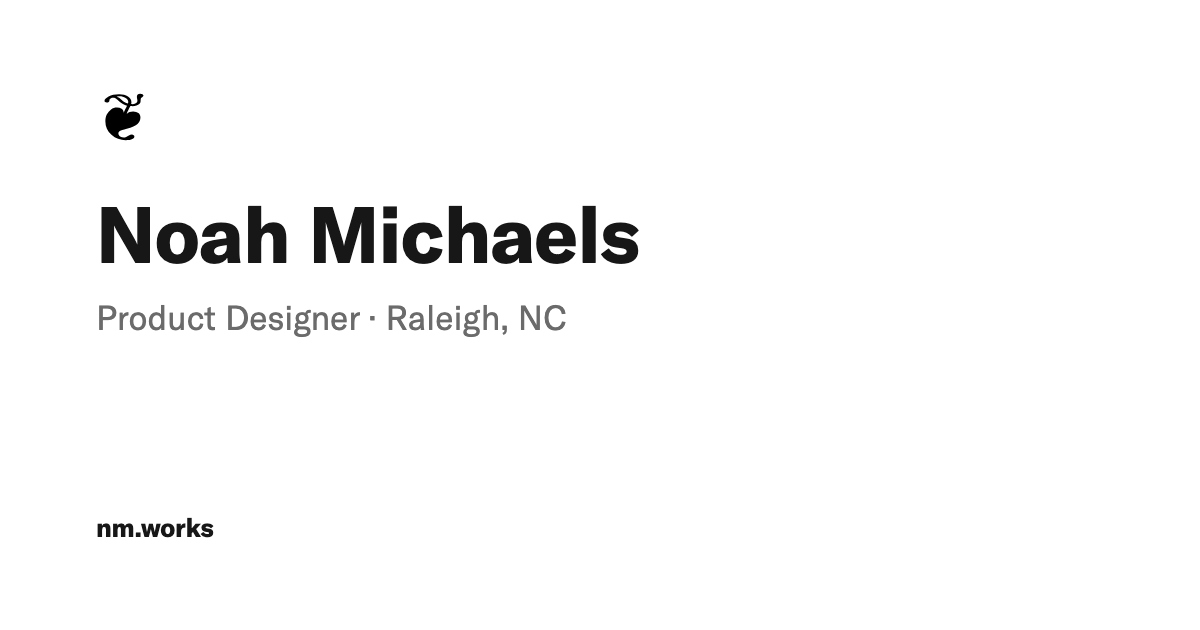
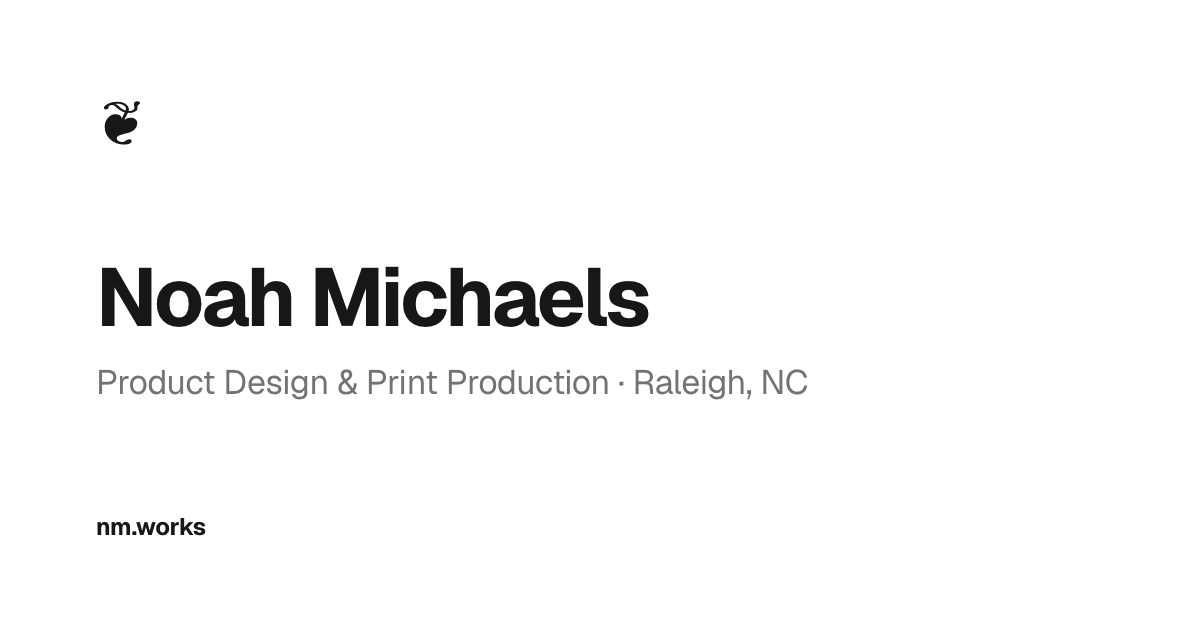
Add print employment context, regenerate OG image, update docs
Copy:
- State the NCGA print shop job and its January 2021 start date, which
  closes the 2019 to 2026 gap in the work history.
- Describe the NCGA role by function rather than by the state
  classification, which does not read outside government.
- Replace "separations" with "variable data" in the intro. Separations
  are real for Grouch, not for the NCGA work.

OG image:
- Regenerate public/og.png in Geist with the dual-track subtitle. The
  old one still read "Product Designer" and was set in GT America.

Docs:
- README and CLAUDE.md describe the product-plus-print positioning.
- CLAUDE.md gains a Fonts section (Geist/OFL only, do not reintroduce
  license-restricted faces, use lucide:arrow-right since U+2192 is
  outside Google's latin subset) and a rule against inventing
  production detail in case studies.

diff --git a/src/data/projects.ts b/src/data/projects.ts
@@ -90,7 +90,7 @@ export const projects: Project[] = [
     category: "case-study",
     status: "published",
     disciplines: ["information-architecture", "ux-ui", "front-end"],
-    role: "Product designer for the print shop. Designed the workflow and built the tool",
+    role: "Print production and graphic design at the NCGA print shop since 2021. Designed the workflow and built the tool",
     year: "2026",
     teaser:
       "A template system that keeps official stationery consistent and print-ready for all 170 members of the NC legislature.",

diff --git a/CLAUDE.md b/CLAUDE.md
@@ -34,9 +34,16 @@ There is no unit/integration test runner.
 
 ## Copy and voice
 
-The site positions Noah as a product designer (applying to UX, product, and graphic design roles). All user-facing copy follows these rules:
+The site runs a dual track: product UX and print production, aimed at UX, product, graphic design, and prepress roles. Copy should stay legible to both a software hiring manager and a print shop. All user-facing copy follows these rules:
 
 - Plain, confident, first person: "I designed / built / redesigned," never "architected / engineered / optimized / leveraged."
 - Concrete outcomes over abstractions; keep numbers (170 legislators, one press pass instead of two).
 - No em dashes in body text; use commas, colons, or separate sentences.
 - Typographic curly apostrophes (') in source copy, matching existing text.
+- Never invent production detail. Separations, registration, press setup, and vendor process are checkable claims, and Noah gets asked about them in interviews. If a specific is not in `src/data/projects.ts`, an existing case study, or supplied by Noah, ask rather than infer it from a photograph.
+
+## Fonts
+
+Geist only, self-hosted from `public/fonts/` and declared in `src/styles/global.css`. It is SIL OFL 1.1, which permits redistribution; this repo is public, so any replacement must be too. GT America and Univers Next Pro were removed from the repo and its history for exactly this reason, so do not reintroduce them or any other license-restricted face.
+
+Geist is a variable font: one file per style covers weights 100 to 900. Google's `latin` subset omits U+2192, so use `lucide:arrow-right` rather than a literal arrow character.

diff --git a/README.md b/README.md
@@ -1,12 +1,12 @@
 # nm.works
 
-Portfolio site for Noah Michaels — a Product Designer working across product UX, UI, front-end development, mobile, information architecture, and visual systems.
+Portfolio site for Noah Michaels, a designer working across product UX, information architecture, front-end development, and print production.
 
 Built as a static Astro site with TypeScript and Tailwind CSS v4, and deployed on Cloudflare Pages.
 
 ## What this site showcases
 
-- Case studies from shipped product and design systems work
+- Case studies from shipped product, internal tool, and print production work
 - Visual and UI craft across web, product, and brand surfaces
 - Ongoing work-in-progress projects
 
@@ -17,6 +17,7 @@ Built as a static Astro site with TypeScript and Tailwind CSS v4, and deployed o
 - Tailwind CSS v4 via Vite
 - CVA-based styling with `tailwind-merge`
 - Cloudflare Pages project `nm-works`
+- Geist (SIL OFL 1.1), self-hosted from `public/fonts/`
 
 ## SEO & performance
 
